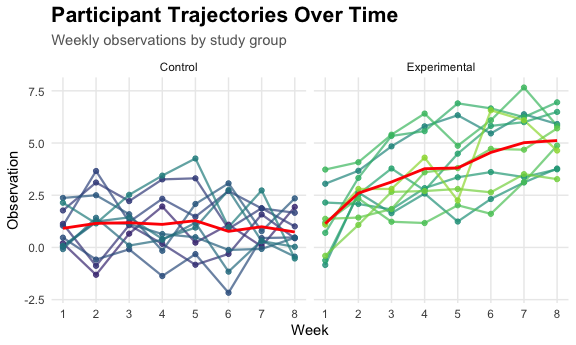
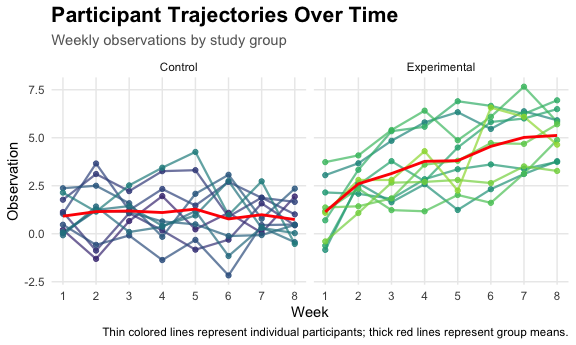
Problem 2 completed - moved over from wrong repo

diff --git a/p8105_hw5_lm3717.md b/p8105_hw5_lm3717.md
@@ -127,33 +127,7 @@ longitudinal_files_df =
       pattern = "\\.csv$"
     )
   )
-
-longitudinal_files_df
 ```
-
-    ## # A tibble: 20 × 1
-    ##    file_name 
-    ##    <chr>     
-    ##  1 con_01.csv
-    ##  2 con_02.csv
-    ##  3 con_03.csv
-    ##  4 con_04.csv
-    ##  5 con_05.csv
-    ##  6 con_06.csv
-    ##  7 con_07.csv
-    ##  8 con_08.csv
-    ##  9 con_09.csv
-    ## 10 con_10.csv
-    ## 11 exp_01.csv
-    ## 12 exp_02.csv
-    ## 13 exp_03.csv
-    ## 14 exp_04.csv
-    ## 15 exp_05.csv
-    ## 16 exp_06.csv
-    ## 17 exp_07.csv
-    ## 18 exp_08.csv
-    ## 19 exp_09.csv
-    ## 20 exp_10.csv
 
 ``` r
 longitudinal_files_df =
@@ -239,6 +213,13 @@ longitudinal_tidy_df |>
     end = 0.85
   ) +
   scale_x_continuous(breaks = 1:8) +
+  labs(
+    title = "Participant Trajectories Over Time",
+    subtitle = "Weekly observations by study group",
+    x = "Week",
+    y = "Observation",
+    caption = "Thin colored lines represent individual participants; thick red lines represent group means."
+  ) +
   labs(
     title = "Participant Trajectories Over Time",
     subtitle = "Weekly observations by study group",
